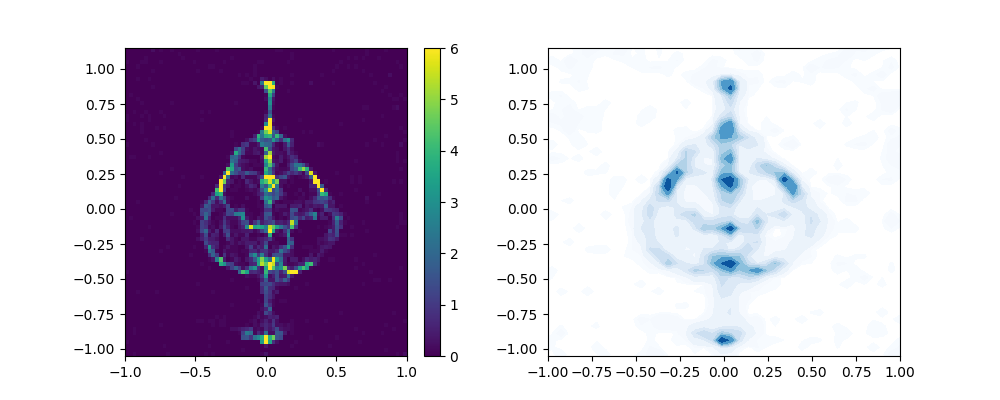
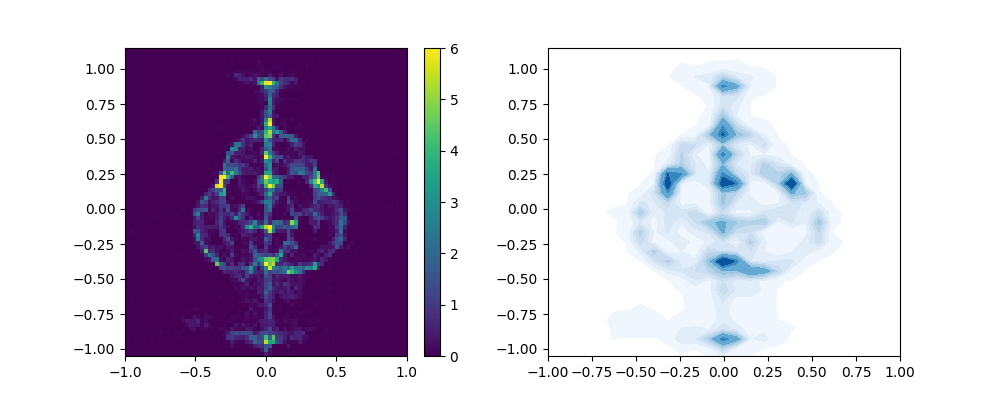
generic commit

diff --git a/scripts/transport/kvae_flow.py b/scripts/transport/kvae_flow.py
@@ -70,8 +70,7 @@ class Comp_transport_model:
         n = len(self.submodel_params['Lambda_mean'])
         eps = .01
         self.noise_shrink_c = np.exp(np.log(eps)/(n))
-
-
+        self.approx = False
         if device:
             self.device = device
         else:
@@ -79,6 +78,29 @@ class Comp_transport_model:
                 self.device = 'cuda'
             else:
                 self.device = 'cpu'
+
+
+    def map_mean(self, x_mu, y_eta, y_mean, Lambda_mean, X_mean, fit_kernel):
+        if self.approx:
+            y_mean = geq_1d(torch.tensor(y_mean, device=self.device, dtype=self.dtype))
+        else:
+            y_mean = deepcopy(y_eta)
+        w_mean = torch.concat([x_mu, y_mean], dim=1)
+        z_mean = fit_kernel(X_mean, w_mean).T @ Lambda_mean
+        return z_mean
+
+
+    def map_var(self, x_mu, y_eta, y_mean, Lambda_var, X_var, fit_kernel):
+        if not self.approx:
+            return 0 * y_eta
+
+        y_mean = geq_1d(torch.tensor(y_mean, device=self.device, dtype=self.dtype))
+
+        w_var = torch.concat([x_mu, y_eta, y_mean], dim=1)
+        Lambda_var = Lambda_var
+
+        z_var = fit_kernel(X_var, w_var).T @ Lambda_var
+        return z_var
 
 
     def param_map(self, step_idx, param_dict):
@@ -92,33 +114,30 @@ class Comp_transport_model:
 
         y_eta = geq_1d(torch.tensor(param_dict['y_eta'], device=self.device, dtype=self.dtype))
         x_mu = geq_1d(torch.tensor(param_dict['x_mu'], device=self.device, dtype=self.dtype))
+        y_mean = geq_1d(torch.tensor(param_dict['y_mean'], device=self.device, dtype=self.dtype))
+        y_var = geq_1d(torch.tensor(param_dict['y_var'], device=self.device, dtype=self.dtype))
 
-        if len(param_dict['y_mean']):
-            y_mean = geq_1d(torch.tensor(param_dict['y_mean'], device=self.device, dtype=self.dtype))
-            y_var = geq_1d(torch.tensor(param_dict['y_var'], device=self.device, dtype=self.dtype))
-            x_var = torch.concat([x_mu, y_eta, y_mean], dim=1)
-            z_var = fit_kernel(X_var, x_var).T @ Lambda_var
-        else:
-            y_mean = deepcopy(y_eta)
-            y_var = 0 * y_mean
-            z_var = 0
+        z_mean = self.map_mean(x_mu, y_eta, y_mean,Lambda_mean, X_mean, fit_kernel)
+        z_var = self.map_var(x_mu, y_eta, y_mean, Lambda_var, X_var, fit_kernel)
 
-        x_mean = torch.concat([x_mu, y_mean], dim=1)
-        z_mean = fit_kernel(X_mean, x_mean).T @ Lambda_mean
-        y_eta = self.noise_shrink_c * shuffle(y_eta)
-
-        y_approx = y_mean + y_var
         z = z_mean + z_var
-        param_dict = {'y_eta': y_eta, 'y_mean': y_mean + z_mean, 'y_var': y_var + z_var, 'x_mu': x_mu,
-                       'y_approx': y_approx + z, 'y': torch.concat([x_mu, y_approx + z], dim=1)}
+
+        y_approx = deepcopy(y_eta)
+        if self.approx:
+            y_approx = y_mean + y_var
+
+        param_dict = {'y_eta': y_eta, 'y_mean': y_mean + z_mean, 'y_var': y_var + z_var,
+                       'x_mu': x_mu, 'y_approx': y_approx + z, 'y': torch.concat([x_mu, z + y_approx], dim=1)}
+
         return param_dict
 
-
     def c_map(self, x, y, no_x = False):
-        param_dict = {'y_eta': y, 'y_mean': [] , 'y_var': 0,
-                       'x_mu': x, 'y_approx': None, 'y': None}
+        param_dict = {'y_eta': y, 'y_mean': 0 , 'y_var': 0,
+                       'x_mu': x, 'y_approx': 0, 'y': 0}
+        self.approx = False
         for step_idx in range(len(self.submodel_params['Lambda_mean'])):
             param_dict = self.param_map(step_idx, param_dict)
+            self.approx =True
         if no_x:
             return param_dict['y_approx']
         return param_dict['y']
@@ -149,8 +168,8 @@ class CondTransportKernel(nn.Module):
 
         self.Y_mean = self.Y_eta
         self.Y_var = torch.zeros(self.Y_eta.shape,  device=self.device, dtype=self.dtype)
-        self.params['approx'] = False
-        if len(base_params['Y_mean']):
+        self.approx = self.params['approx']
+        if self.approx:
             self.Y_mean = geq_1d(torch.tensor(base_params['Y_mean'], device=self.device, dtype=self.dtype))
             self.Y_var = geq_1d(torch.tensor(base_params['Y_var'], device=self.device, dtype=self.dtype))
             self.params['approx'] = True
@@ -182,7 +201,7 @@ class CondTransportKernel(nn.Module):
         self.Y_mean_test = deepcopy(self.Y_eta_test)
         self.Y_var_test = 0 * self.Y_eta_test
 
-        if self.params['approx']:
+        if self.approx:
             self.Y_mean_test = geq_1d(torch.tensor(base_params['Y_mean_test'], device=self.device, dtype=self.dtype))
             self.Y_var_test = geq_1d(torch.tensor(base_params['Y_var_test'], device=self.device, dtype=self.dtype))
 
@@ -215,7 +234,7 @@ class CondTransportKernel(nn.Module):
 
 
     def map_mean(self, x_mu, y_eta, y_mean):
-        if self.params['approx']:
+        if self.approx:
             y_mean = geq_1d(torch.tensor(y_mean, device=self.device, dtype=self.dtype))
         else:
             y_mean = deepcopy(y_eta)
@@ -226,7 +245,7 @@ class CondTransportKernel(nn.Module):
 
 
     def map_var(self, x_mu, y_eta, y_mean, y_var):
-        if not self.params['approx']:
+        if not self.approx:
             return 0 * y_eta
 
         y_mean = geq_1d(torch.tensor(y_mean, device=self.device, dtype=self.dtype))
@@ -250,11 +269,11 @@ class CondTransportKernel(nn.Module):
         z = z_mean + z_var
 
         y_approx = deepcopy(y_eta)
-        if self.params['approx']:
+        if self.approx:
             y_approx = y_mean + y_var
-        return_dict = {'y_eta': y_eta, 'y_mean': y_mean + z_mean, 'y_var': y_var + z_var,
-                       'y_approx': y_approx + z, 'y': torch.concat([x_mu, z + y_approx], dim = 1)}
 
+        return_dict = {'y_eta': y_eta, 'y_mean': y_mean + z_mean, 'y_var': y_var + z_var,
+                       'x_mu': x_mu, 'y_approx': y_approx + z, 'y': torch.concat([x_mu, z + y_approx], dim = 1)}
         return return_dict
 
 
@@ -275,7 +294,7 @@ class CondTransportKernel(nn.Module):
 
     def loss_mmd(self):
         c_var = 1
-        if not self.params['approx']:
+        if self.approx:
             c_var = 0
 
         map_vec = torch.concat([self.X_mu, self.Y_approx  + self.Z_mean + (c_var * self.Z_var)], dim=1)
@@ -339,13 +358,13 @@ class CondTransportKernel(nn.Module):
         return loss, loss_dict
 
 
-def cond_kernel_transport(X_mu, Y_mu, Y_eta, params, n_iter = 10001, Y_mean = [],Y_var = [], iters = 0,
-                          Y_eta_test = [], X_mu_test = [],Y_mu_test = [], Y_mean_test = [], Y_var_test =[]):
+def cond_kernel_transport(X_mu, Y_mu, Y_eta, params, n_iter = 10001,  iters = 0,  approx = False, X_mu_test = [],
+                          Y_mean = [],Y_var = [], Y_eta_test = [],Y_mu_test = [], Y_mean_test = [], Y_var_test =[]):
     transport_params = {'X_mu': X_mu, 'Y_mu': Y_mu, 'Y_eta': Y_eta, 'reg_lambda': 1e-5, 'Y_mean': Y_mean, 'Y_var': Y_var,
                         'fit_kernel_params': deepcopy(params['mmd']), 'mmd_kernel_params': deepcopy(params['fit']),
                         'print_freq': 100, 'learning_rate': .001, 'nugget': 1e-4, 'Y_eta_test': Y_eta_test,
                         'X_mu_test': X_mu_test, 'Y_mu_test': Y_mu_test, 'Y_mean_test': Y_mean_test,
-                        'Y_var_test': Y_var_test, 'iters': iters}
+                        'Y_var_test': Y_var_test, 'iters': iters, 'approx': approx}
     ctransport_kernel = CondTransportKernel(transport_params)
     train_kernel(ctransport_kernel, n_iter)
     return ctransport_kernel
@@ -357,12 +376,13 @@ def comp_cond_kernel_transport(X_mu, Y_mu, Y_eta, params, n_iter = 1001, n = 50,
     iters = 0
     eps = .01
     noise_shrink_c = np.exp(np.log(eps)/(n))
-    Y_mean = []
-    Y_mean_test = []
+    Y_mean = 0
+    Y_mean_test = 0
     Y_var = 0
     Y_var_test = 0
+    approx = False
     for i in range(n):
-        model = cond_kernel_transport(X_mu, Y_mu, Y_eta, params, n_iter, Y_eta_test = Y_eta_test,
+        model = cond_kernel_transport(X_mu, Y_mu, Y_eta, params, n_iter, Y_eta_test = Y_eta_test, approx =approx,
                                       Y_mean = Y_mean , Y_var = Y_var, X_mu_test = X_mu_test,Y_mu_test = Y_mu_test,
                                       Y_mean_test =  Y_mean_test, Y_var_test = Y_var_test, iters = iters)
 
@@ -383,6 +403,7 @@ def comp_cond_kernel_transport(X_mu, Y_mu, Y_eta, params, n_iter = 1001, n = 50,
         Y_eta *= noise_shrink_c
         Y_eta_test *= noise_shrink_c
         iters = model.iters
+        approx = True
     return Comp_transport_model(model_params)
 
 
@@ -672,9 +693,10 @@ def vl_exp(N=10000, n_iter=31, Yd=18, normal=True, exp_name='vl_exp'):
 def run():
     ref_gen = sample_normal
     target_gen = sample_spirals
-    N = 4000
-    two_d_exp(ref_gen, target_gen, N, n_iter=101, plt_range=[[-3, 3], [-3, 3]], process_funcs=[],
-              slice_vals=[-1, 0, 1], slice_range=[-1.5, 1.5], exp_name='exp', skip_idx=1, vmax=None, n_transports=150)
+    N = 1500
+    two_d_exp(ref_gen, target_gen, N, n_iter=101, plt_range=[[-3, 3], [-3, 3]], process_funcs=[], skip_idx=1,
+              slice_vals=[-1, 0, 1], slice_range=[-1.5, 1.5], exp_name='spiral_kflow', vmax=.15, n_transports=25)
+
 
 if __name__=='__main__':
     run()
